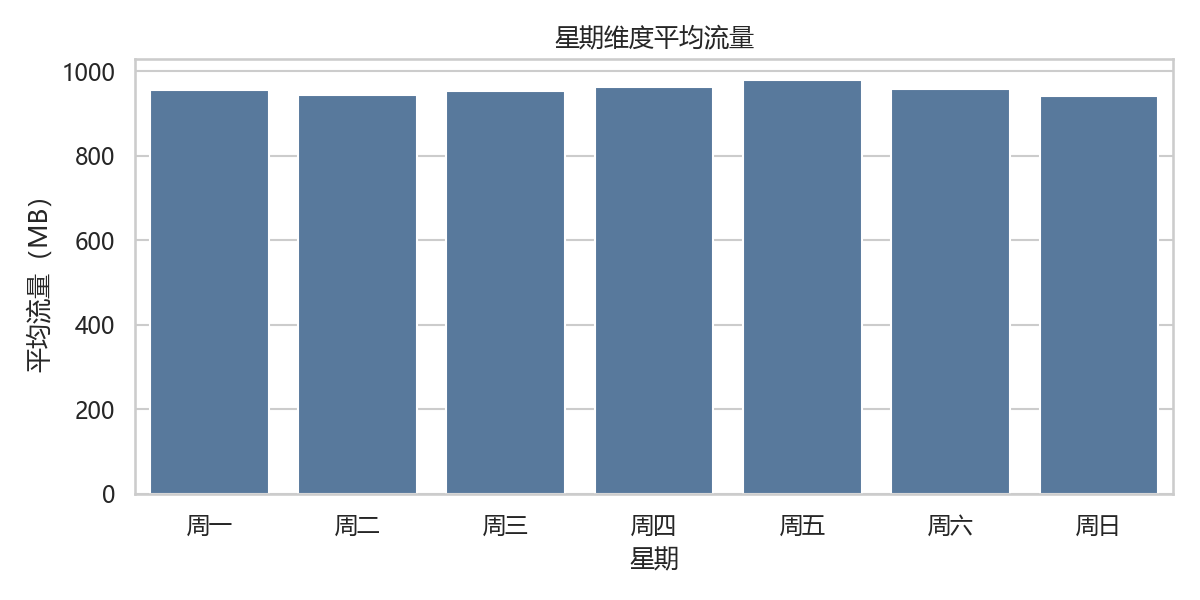
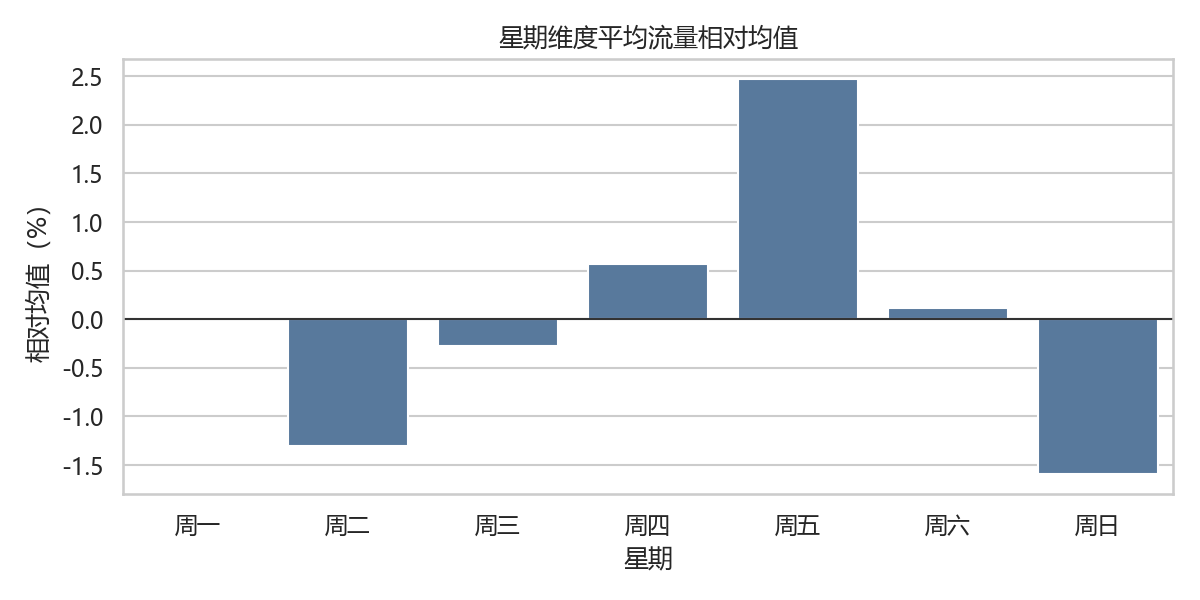
feat: 更新星期维度图表

diff --git a/section3_descriptive.py b/section3_descriptive.py
@@ -519,18 +519,25 @@ def main() -> None:
     weekday_agg["user_mean"] = weekday_agg["user_sum"] / weekday_agg["user_count"].replace(0, np.nan)
     weekday_names = weekday_labels(list(weekday_agg.index))
 
+    flow_weekday_mean = weekday_agg["flow_mean"].mean()
+    user_weekday_mean = weekday_agg["user_mean"].mean()
+    weekday_agg["flow_pct"] = (weekday_agg["flow_mean"] / flow_weekday_mean - 1) * 100
+    weekday_agg["user_pct"] = (weekday_agg["user_mean"] / user_weekday_mean - 1) * 100
+
     plt.figure(figsize=(8, 4))
-    sns.barplot(x=weekday_names, y=weekday_agg["flow_mean"], color="#4C78A8")
-    plt.title("\u661f\u671f\u7ef4\u5ea6\u5e73\u5747\u6d41\u91cf")
+    sns.barplot(x=weekday_names, y=weekday_agg["flow_pct"], color="#4C78A8")
+    plt.axhline(0, color="#333333", linewidth=1)
+    plt.title("\u661f\u671f\u7ef4\u5ea6\u5e73\u5747\u6d41\u91cf\u76f8\u5bf9\u5747\u503c")
     plt.xlabel("\u661f\u671f")
-    plt.ylabel("\u5e73\u5747\u6d41\u91cf\uff08MB\uff09")
+    plt.ylabel("\u76f8\u5bf9\u5747\u503c\uff08%\uff09")
     save_fig("fig08_weekday_mean_flow.png")
 
     plt.figure(figsize=(8, 4))
-    sns.barplot(x=weekday_names, y=weekday_agg["user_mean"], color="#F58518")
-    plt.title("\u661f\u671f\u7ef4\u5ea6\u5e73\u5747\u7528\u6237\u6570")
+    sns.barplot(x=weekday_names, y=weekday_agg["user_pct"], color="#F58518")
+    plt.axhline(0, color="#333333", linewidth=1)
+    plt.title("\u661f\u671f\u7ef4\u5ea6\u5e73\u5747\u7528\u6237\u6570\u76f8\u5bf9\u5747\u503c")
     plt.xlabel("\u661f\u671f")
-    plt.ylabel("\u5e73\u5747\u7528\u6237\u6570")
+    plt.ylabel("\u76f8\u5bf9\u5747\u503c\uff08%\uff09")
     save_fig("fig09_weekday_mean_user.png")
 
     holiday_hour_agg = holiday_hour_agg.reset_index()
